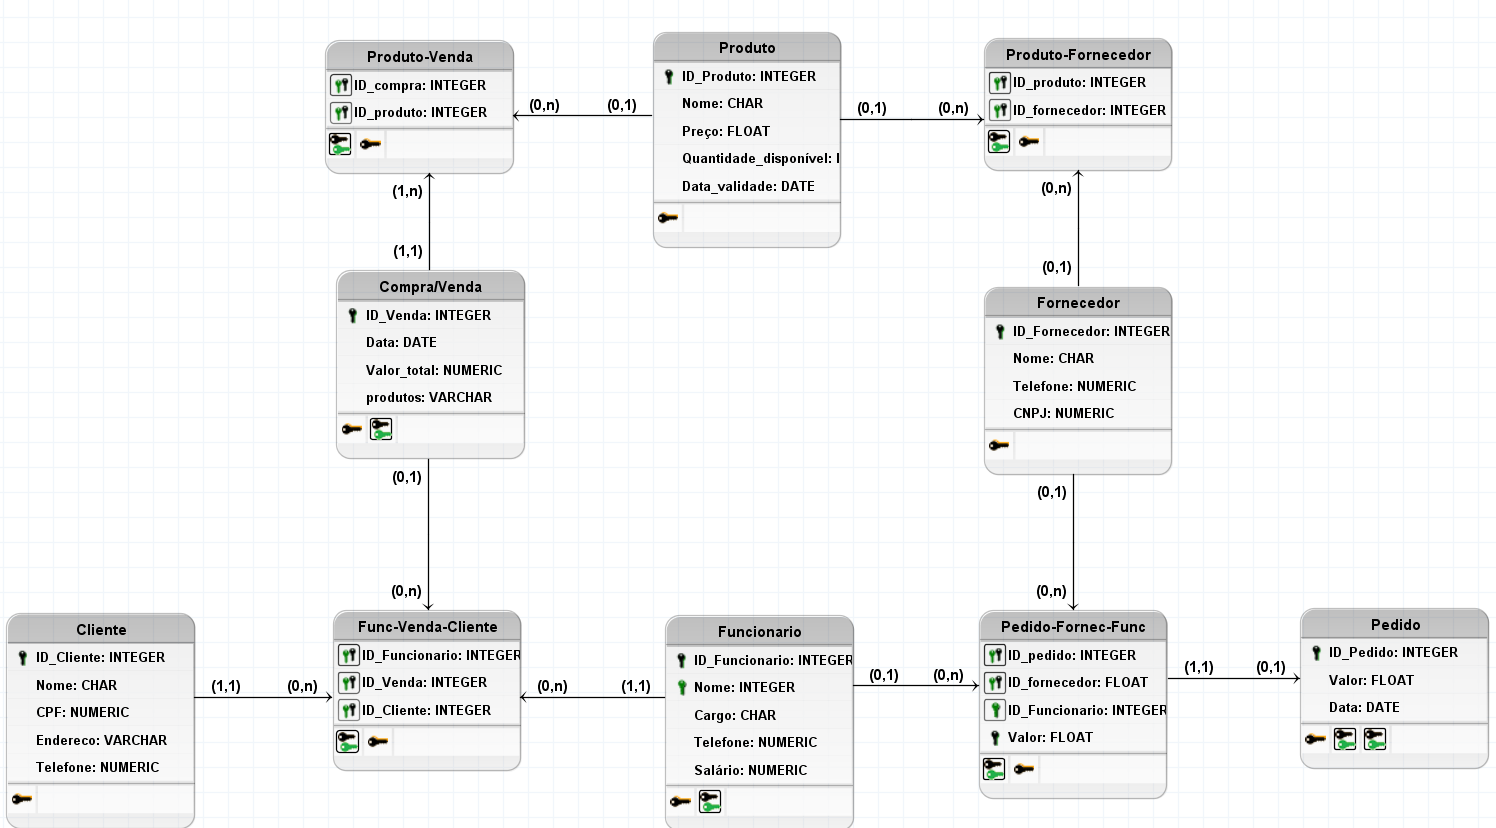
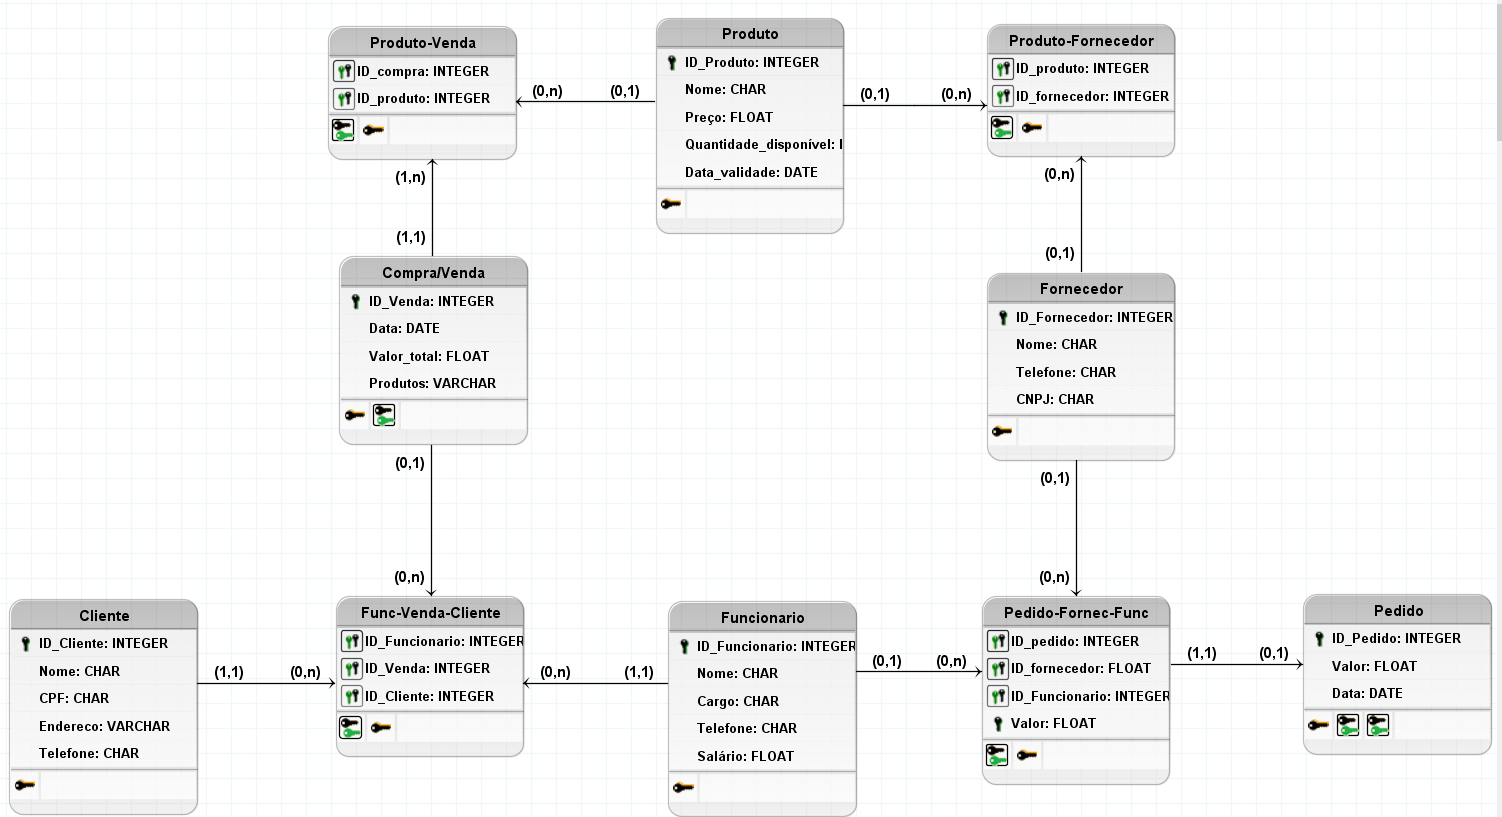
:bookmark: update: MR v2.1 mudança de alguns atributos e README atualizado

diff --git a/README.md b/README.md
@@ -6,9 +6,9 @@ O seguinte projeto faz parte da avaliação final da disciplina de BDI (Banco de
 - [Minimundo](#minimundo)
 - [Tecnologias utilizadas](#tecnologias-utilizadas)
 - [Desenvolvimento](#desenvolvimento)
-- [Modelo Entidade Relacionamento (MER)](#modelo-entidade-relacionamento)
-- [Modelo Relacional (MR)](#modelo-relacional)
-- [Consultas](#consulta)
+- [Modelo Entidade Relacionamento (MER)](#modelo-entidade-relacionamento-(mer))
+- [Modelo Relacional (MR)](#modelo-relacional-(mr))
+- [Consultas](#consultas)
 - [Equipe](#equipe)
 
 ---
@@ -28,7 +28,8 @@ A equipe organizou as atividades de maneira dinâmica, dividindo as tasks de aco
 
 - **Emilly**: Modelagem Entidade-Relacionamento (MER)
 - **Maria Clara**: Modelagem Relacional (MR)
-- **Guilherme e Raquel**: Criação do Modelo Físico
+- **Guilherme**: Criação do Modelo Físico
+- **Raquel**: Inserção de dados e consultas no Modelo Físico
 - **Caíque**: Organização geral e correção de erros
 
 A contribuição de cada integrante pode ser observada nos commits do repositório. Vale ressaltar que, embora as tasks tenham sido divididas para fins de organização, todos participaram de cada fase do projeto, pois cada task dependia da subsequente.
